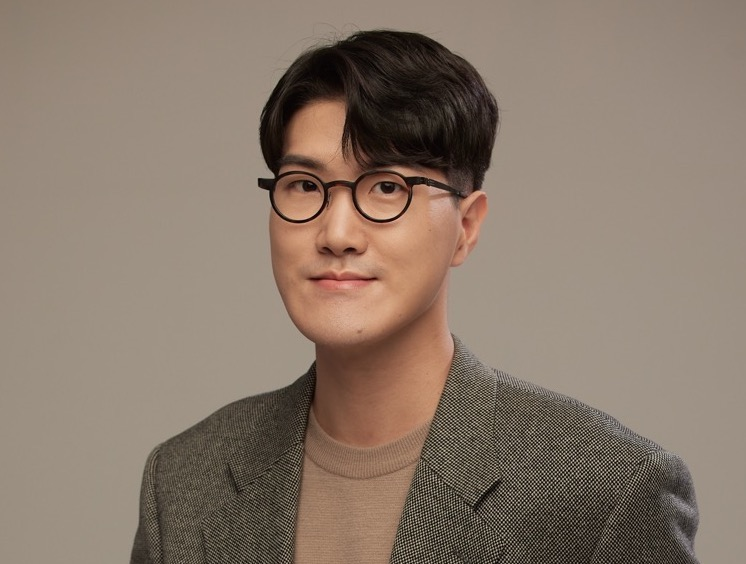
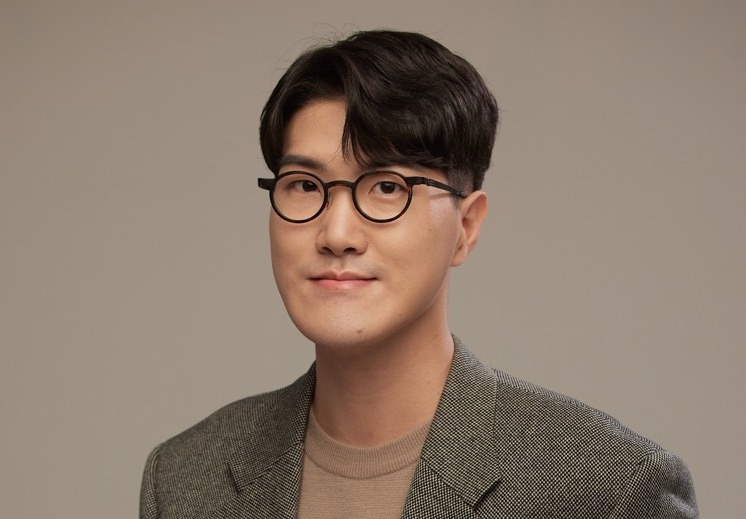
tweaks galore

Changed region(s): [[0.1542, 0.0308, 0.9558, 1.0], [0.5241, 0.185, 0.555, 0.2158], [0.5241, 0.0925, 0.555, 0.1233]]

diff --git a/data/authors/default.md b/data/authors/default.md
@@ -1,7 +1,7 @@
 ---
 name: JiWoong Jang (장지웅)
 koreanname: (I usually go by Joon)
-avatar: '/static/images/profile/alt-profile.jpg'
+avatar: '/static/images/profile/alt-profile-square.jpg'
 
 occupation: research in A11y & HCI
 company: phd student @ CMU HCII
@@ -22,6 +22,6 @@ hobbytext1: 'In my off time, I freelance as a video/music director and producer 
 questionstext: 'If you have any questions, please reach me using the various links around the page/site. (If you notice that this website is inaccessible, please do ping! TIA~)'
 ---
 
-I'm a second-year Ph.D. student at the [Human Computer Interaction Institute](https://hcii.cmu.edu), at Carnegie Mellon University's School of Computer Science. I'm advised by [Patrick Carrington](patrickcarrington.com) and [Andrew Begel](https://andrewbegel.com) and currently am a member of [AXLE Lab](https://axle-lab.com) and [VariAbility Lab](https://cmu-variability.github.io/).
+I'm a second-year Ph.D. student at the [Human Computer Interaction Institute](https://hcii.cmu.edu), at Carnegie Mellon University's School of Computer Science. I'm advised by [Patrick Carrington](https://patrickcarrington.com) and [Andrew Begel](https://andrewbegel.com) and currently am a member of [AXLE Lab](https://axle-lab.com) and [VariAbility Lab](https://cmu-variability.github.io/).
 
 I conduct research at the intersection of accessibility ([A11y](https://www.a11yproject.com)), disability studies, computer vision applications, and [IxD](https://en.wikipedia.org/wiki/Interaction_design) for computer and robotic systems.
